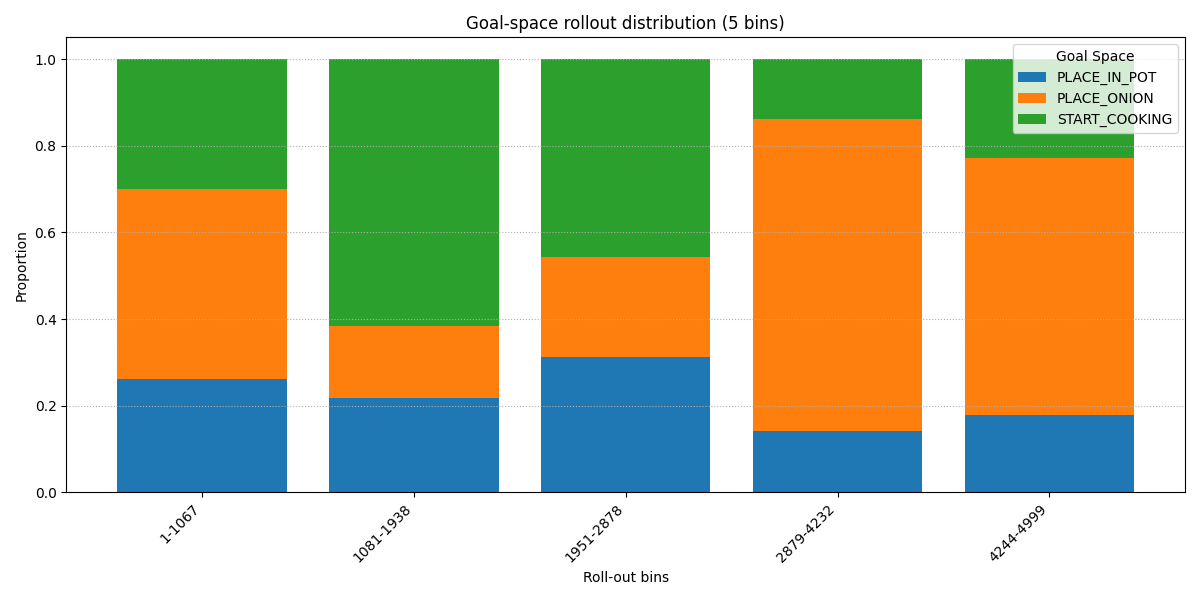
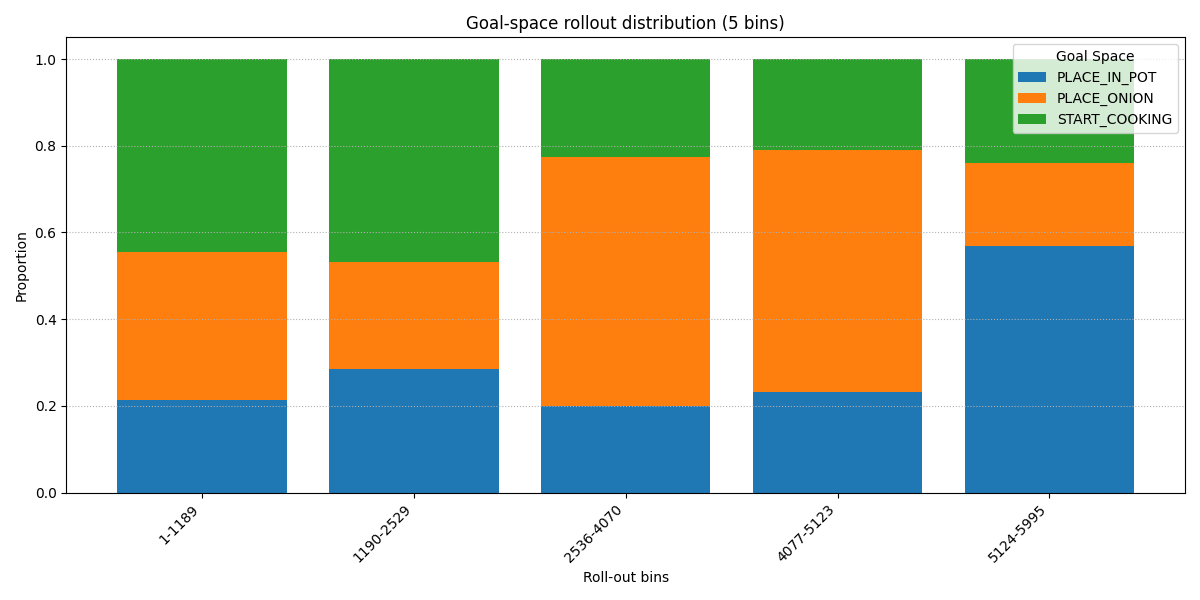
Pretty nice plot

diff --git a/IMGEP_agent/hyper_parameters.py b/IMGEP_agent/hyper_parameters.py
@@ -1,8 +1,8 @@
 # ROLLOUT PARAMETERS
 HORIZON = 100  # number of steps to run per rollout
-ROLLOUTS = 5000  # number of rollouts to run
+ROLLOUTS = 1000  # number of rollouts to run
 LAYOUT_ID = 22  # layout index to use from the layouts list in overcooked_ai_py
-LOAD_KB = False  # whether to load the knowledge base from a file or not
+LOAD_KB = True  # whether to load the knowledge base from a file or not
 
 # AGENT PARAMETERS
 EXPLOIT_PROB = 0.2  # probability of exploiting the current policy
